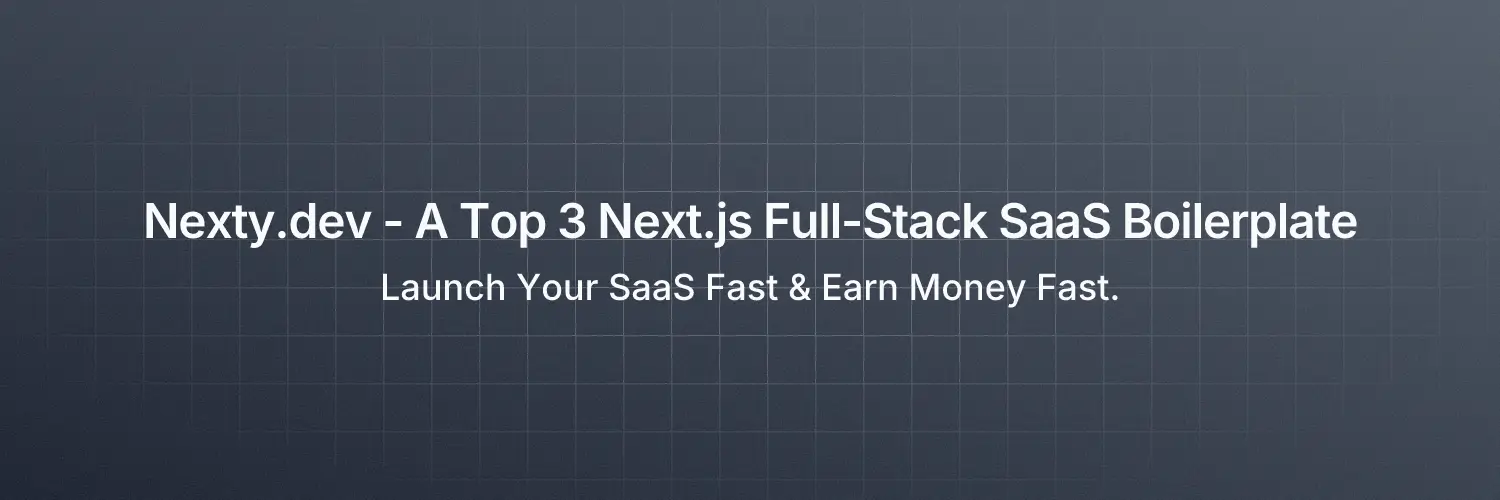
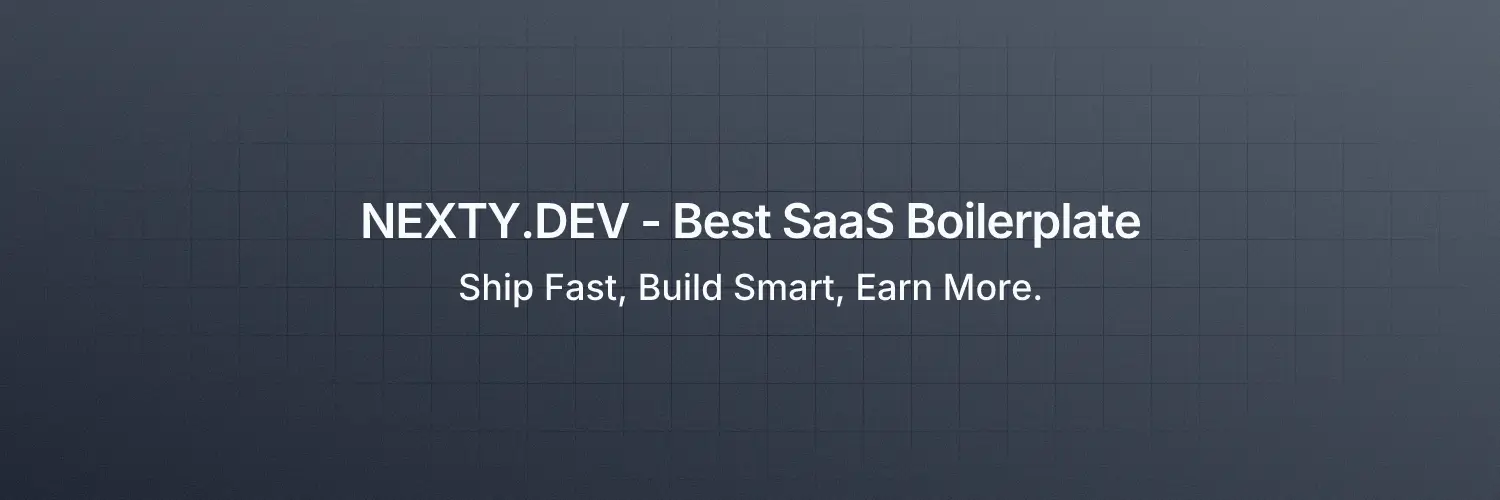
chore: standardize branding to NEXTY.DEV

Changed region(s): [[0.092, 0.36, 0.92, 0.51], [0.2453, 0.54, 0.7667, 0.6]]

diff --git a/components/BuiltWithButton.tsx b/components/BuiltWithButton.tsx
@@ -2,14 +2,14 @@ import { buttonVariants } from "@/components/ui/button";
 import { cn } from "@/lib/utils";
 import Link from "next/link";
 
-// Nexty.dev Affiliate Link: https://affiliates.nexty.dev/
+// NEXTY.DEV Affiliate Link: https://affiliates.nexty.dev/
 // sign up and use your affiliate link on BuiltWithButton to earn money
 
 export default function BuiltWithButton() {
   return (
     <Link
       href="https://nexty.dev"
-      title="Built with Nexty.dev"
+      title="Built with NEXTY.DEV"
       prefetch={false}
       target="_blank"
       rel="noopener noreferrer"
@@ -23,7 +23,7 @@ export default function BuiltWithButton() {
         <LogoNexty className="size-4 rounded-full" />
       </span>
       <span className="font-bold text-base-content flex gap-0.5 items-center tracking-tight">
-        Nexty.dev
+        NEXTY.DEV
       </span>
     </Link>
   );

diff --git a/components/home/Hero.tsx b/components/home/Hero.tsx
@@ -39,7 +39,7 @@ export default function Hero() {
             href="https://nexty.dev/"
             target="_blank"
             rel="noopener noreferrer"
-            title="Get SaaS Version - Nexty.dev"
+            title="Get SaaS Version - NEXTY.DEV"
             prefetch={false}
             className="flex items-center gap-2"
           >

diff --git a/README.md b/README.md
@@ -1,9 +1,9 @@
 ---
 Ship your SaaS faster with Nexty
 
-Nexty.dev is a comprehensive Next.js SaaS boilerplate that provides everything developers need to rapidly build and launch modern AI web applications
+NEXTY.DEV is a comprehensive Next.js SaaS boilerplate that provides everything developers need to rapidly build and launch modern AI web applications
 
-Try [Nexty.dev today](https://nexty.dev?utm_source=github-nextjs-starter)
+Try [NEXTY.DEV today](https://nexty.dev?utm_source=github-nextjs-starter)
 ---
 
 [<img src="/public/try-nexty.webp">](https://nexty.dev?utm_source=github-nextjs-starter)

diff --git a/README_ja.md b/README_ja.md
@@ -1,7 +1,7 @@
 ---
 Nexty で SaaS を迅速に立ち上げよう - ビジュアル料金ダッシュボード、AI プレイグラウンド、エンタープライズレベル CMS を備えた唯一の Next.js ボイラープレート。多言語対応、認証、決済、メール機能、SEO 最適化も完備。
 
-[Nexty.dev を今すぐ試す](https://nexty.dev?utm_source=github-nextjs-starter)
+[NEXTY.DEV を今すぐ試す](https://nexty.dev?utm_source=github-nextjs-starter)
 ---
 
 [<img src="/public/try-nexty.webp">](https://nexty.dev?utm_source=github-nextjs-starter)

diff --git a/README_zh.md b/README_zh.md
@@ -1,7 +1,7 @@
 ---
 使用 Nexty 加速 SaaS 开发 - 唯一一个集成可视化定价面板、AI 开发环境和企业级 CMS 的 Next.js 模板，还包含多语言支持、身份验证、支付系统、电子邮件功能和 SEO 优化。
 
-立即体验 [Nexty.dev](https://nexty.dev/?utm_source=github-nextjs-starter)
+立即体验 [NEXTY.DEV](https://nexty.dev/?utm_source=github-nextjs-starter)
 ---
 
 [<img src="/public/try-nexty.webp">](https://nexty.dev/?utm_source=github-nextjs-starter)
